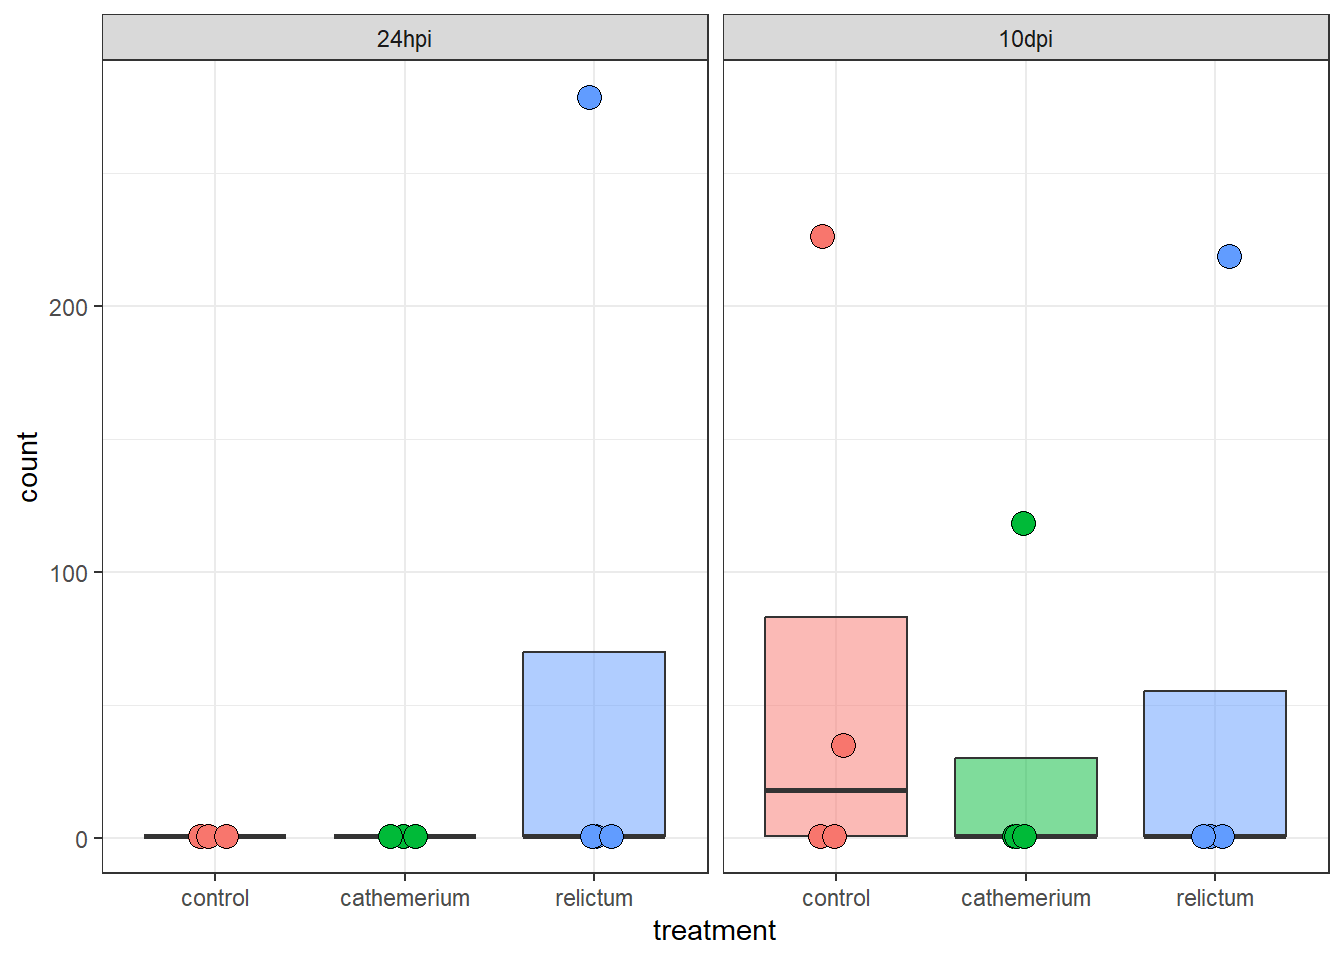
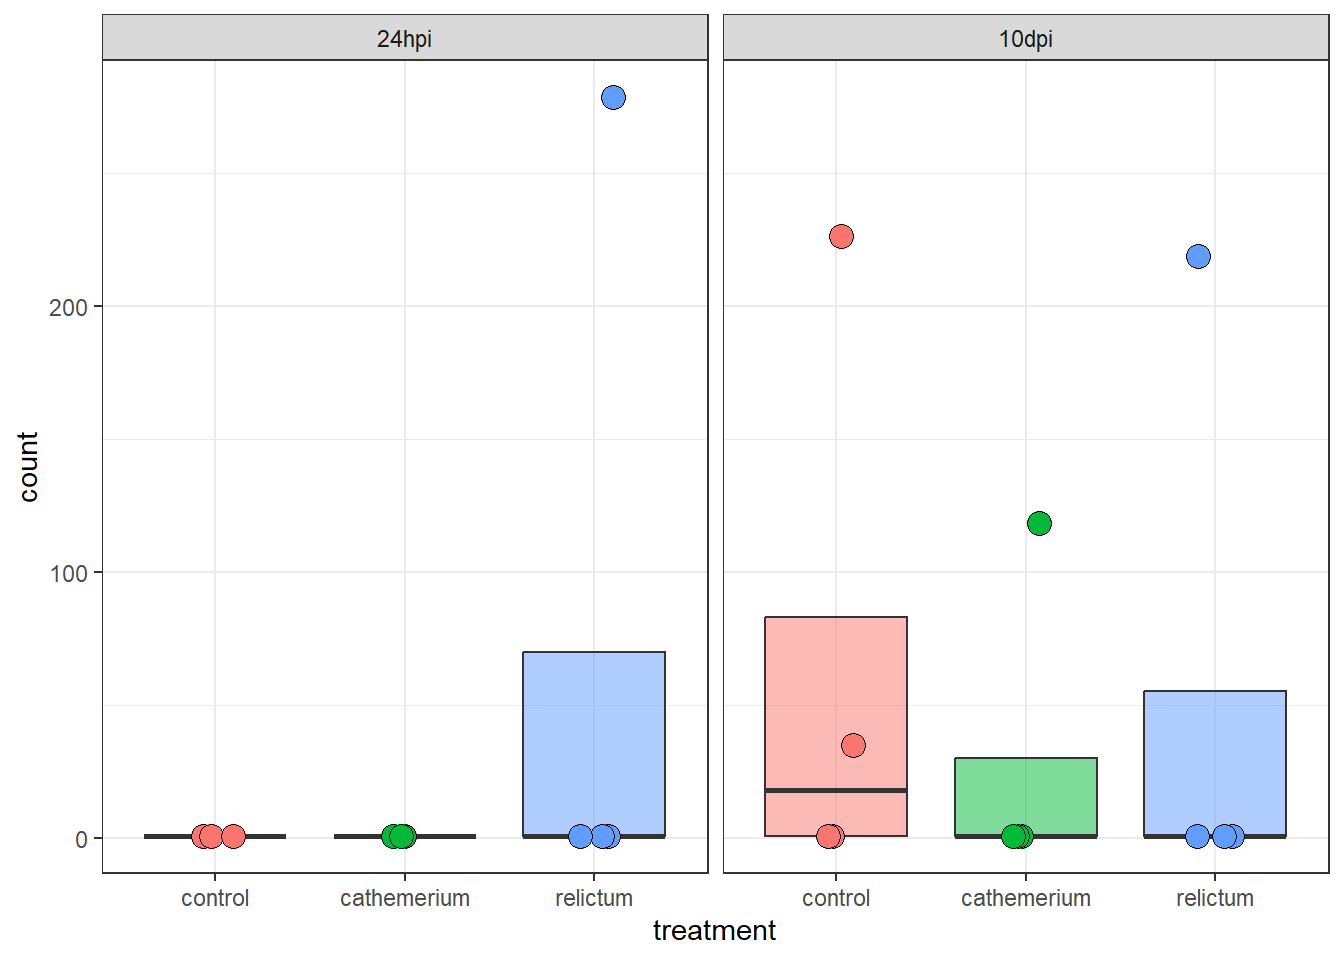
Built site for gh-pages

diff --git a/week14/w14a_deseq.html b/week14/w14a_deseq.html
@@ -479,18 +479,12 @@ pre > code.sourceCode > span > a:first-child::before { text-decoration: underlin
 
 
 <hr>
-<div class="cell">
-<div class="code-copy-outer-scaffold"><div class="sourceCode cell-code" id="cb1"><pre class="sourceCode r code-with-copy"><code class="sourceCode r"><span id="cb1-1"><a href="#cb1-1" aria-hidden="true" tabindex="-1"></a><span class="cf">if</span> (<span class="sc">!</span><span class="fu">require</span>(<span class="st">"BiocManager"</span>)) <span class="fu">install.packages</span>(<span class="st">"BiocManager"</span>)</span>
-<span id="cb1-2"><a href="#cb1-2" aria-hidden="true" tabindex="-1"></a><span class="cf">if</span> (<span class="sc">!</span><span class="fu">require</span>(<span class="st">"DESeq2"</span>)) BiocManager<span class="sc">::</span><span class="fu">install</span>(<span class="st">"DESeq2"</span>)</span>
-<span id="cb1-3"><a href="#cb1-3" aria-hidden="true" tabindex="-1"></a><span class="cf">if</span> (<span class="sc">!</span><span class="fu">require</span>(<span class="st">"EnhancedVolcano"</span>)) BiocManager<span class="sc">::</span><span class="fu">install</span>(<span class="st">"EnhancedVolcano"</span>)</span>
-<span id="cb1-4"><a href="#cb1-4" aria-hidden="true" tabindex="-1"></a><span class="cf">if</span> (<span class="sc">!</span><span class="fu">require</span>(<span class="st">"pheatmap"</span>)) <span class="fu">install.packages</span>(<span class="st">"pheatmap"</span>)</span></code></pre></div><button title="Copy to Clipboard" class="code-copy-button"><i class="bi"></i></button></div>
-</div>
 <p><br></p>
 <section id="introduction" class="level2" data-number="1">
 <h2 data-number="1" class="anchored" data-anchor-id="introduction"><span class="header-section-number">1</span> Introduction</h2>
 <section id="overview-learning-goals" class="level3" data-number="1.1">
 <h3 data-number="1.1" class="anchored" data-anchor-id="overview-learning-goals"><span class="header-section-number">1.1</span> Overview &amp; learning goals</h3>
-<p>After running steps like read pre-processing, alignment, and quantification using the nf-core rnaseq workflow, or another method like running separate programs (Jelmer taught) , you will have a <strong>gene count table</strong>. Today, with that gene count table, you will:</p>
+<p>After running steps like read pre-processing, alignment, and quantification using the separate programs (like Jelmer taught) or using a nf-core rnaseq workflow, you will have a <strong>gene count table</strong>. Today, with that gene count table, you will:</p>
 <ul>
 <li>Create an R object that also incorporates the metadata</li>
 <li>Perform exploratory data analysis including a PCA</li>
@@ -509,6 +503,12 @@ pre > code.sourceCode > span > a:first-child::before { text-decoration: underlin
 </section>
 <section id="install-and-load-r-packages" class="level2" data-number="2">
 <h2 data-number="2" class="anchored" data-anchor-id="install-and-load-r-packages"><span class="header-section-number">2</span> Install and load R packages</h2>
+<div class="cell">
+<div class="code-copy-outer-scaffold"><div class="sourceCode cell-code" id="cb1"><pre class="sourceCode r code-with-copy"><code class="sourceCode r"><span id="cb1-1"><a href="#cb1-1" aria-hidden="true" tabindex="-1"></a><span class="cf">if</span> (<span class="sc">!</span><span class="fu">require</span>(<span class="st">"BiocManager"</span>)) <span class="fu">install.packages</span>(<span class="st">"BiocManager"</span>)</span>
+<span id="cb1-2"><a href="#cb1-2" aria-hidden="true" tabindex="-1"></a><span class="cf">if</span> (<span class="sc">!</span><span class="fu">require</span>(<span class="st">"DESeq2"</span>)) BiocManager<span class="sc">::</span><span class="fu">install</span>(<span class="st">"DESeq2"</span>)</span>
+<span id="cb1-3"><a href="#cb1-3" aria-hidden="true" tabindex="-1"></a><span class="cf">if</span> (<span class="sc">!</span><span class="fu">require</span>(<span class="st">"EnhancedVolcano"</span>)) BiocManager<span class="sc">::</span><span class="fu">install</span>(<span class="st">"EnhancedVolcano"</span>)</span>
+<span id="cb1-4"><a href="#cb1-4" aria-hidden="true" tabindex="-1"></a><span class="cf">if</span> (<span class="sc">!</span><span class="fu">require</span>(<span class="st">"pheatmap"</span>)) <span class="fu">install.packages</span>(<span class="st">"pheatmap"</span>)</span></code></pre></div><button title="Copy to Clipboard" class="code-copy-button"><i class="bi"></i></button></div>
+</div>
 <div class="cell">
 <div class="code-copy-outer-scaffold"><div class="sourceCode cell-code" id="cb2"><pre class="sourceCode r code-with-copy"><code class="sourceCode r"><span id="cb2-1"><a href="#cb2-1" aria-hidden="true" tabindex="-1"></a><span class="fu">library</span>(tidyverse)          <span class="co"># Misc. data manipulation and plotting</span></span></code></pre></div><button title="Copy to Clipboard" class="code-copy-button"><i class="bi"></i></button></div>
 <div class="cell-output cell-output-stderr">
@@ -699,7 +699,7 @@ The following objects are masked from 'package:matrixStats':
 </section>
 <section id="create-a-deseq2-object" class="level2" data-number="3">
 <h2 data-number="3" class="anchored" data-anchor-id="create-a-deseq2-object"><span class="header-section-number">3</span> Create a DESeq2 object</h2>
-<p>Like in the <em>Culex</em> paper whose data we are working with, we will perform a Principal Component Analysis (PCA) and a Differential Expression (DE) analysis using the popular <strong>DESeq2</strong> package (<a href="https://genomebiology.biomedcentral.com/articles/10.1186/s13059-014-0550-8">paper</a>, <a href="https://bioconductor.org/packages/release/bioc/html/DESeq2.html">website</a>).</p>
+<p>Like in the <em>Culex</em> <a href="[https://pmc.ncbi.nlm.nih.gov/articles/PMC12288828/">paper</a> whose data we are working with, we will perform a Principal Component Analysis (PCA) and a Differential Expression (DE) analysis using the popular <strong>DESeq2</strong> package (<a href="https://genomebiology.biomedcentral.com/articles/10.1186/s13059-014-0550-8">paper</a>, <a href="https://bioconductor.org/packages/release/bioc/html/DESeq2.html">website</a>).</p>
 <p>The DESeq2 package has its own “object type” (a specific R format type) and before we can do anything else, we need to create a DESeq2 object from three components:</p>
 <ol type="1">
 <li><strong>Metadata</strong><br>
